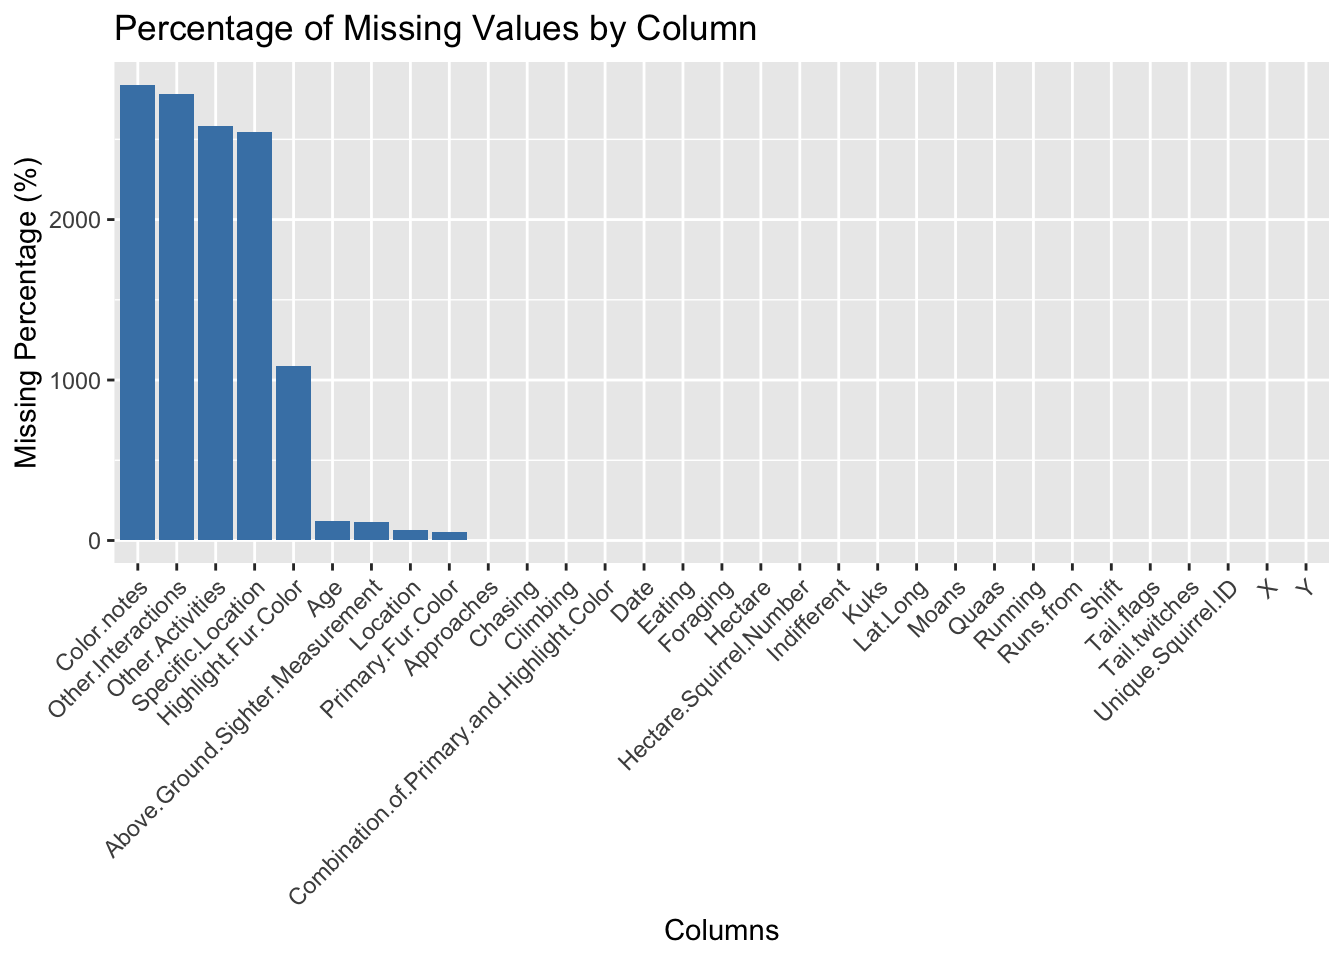
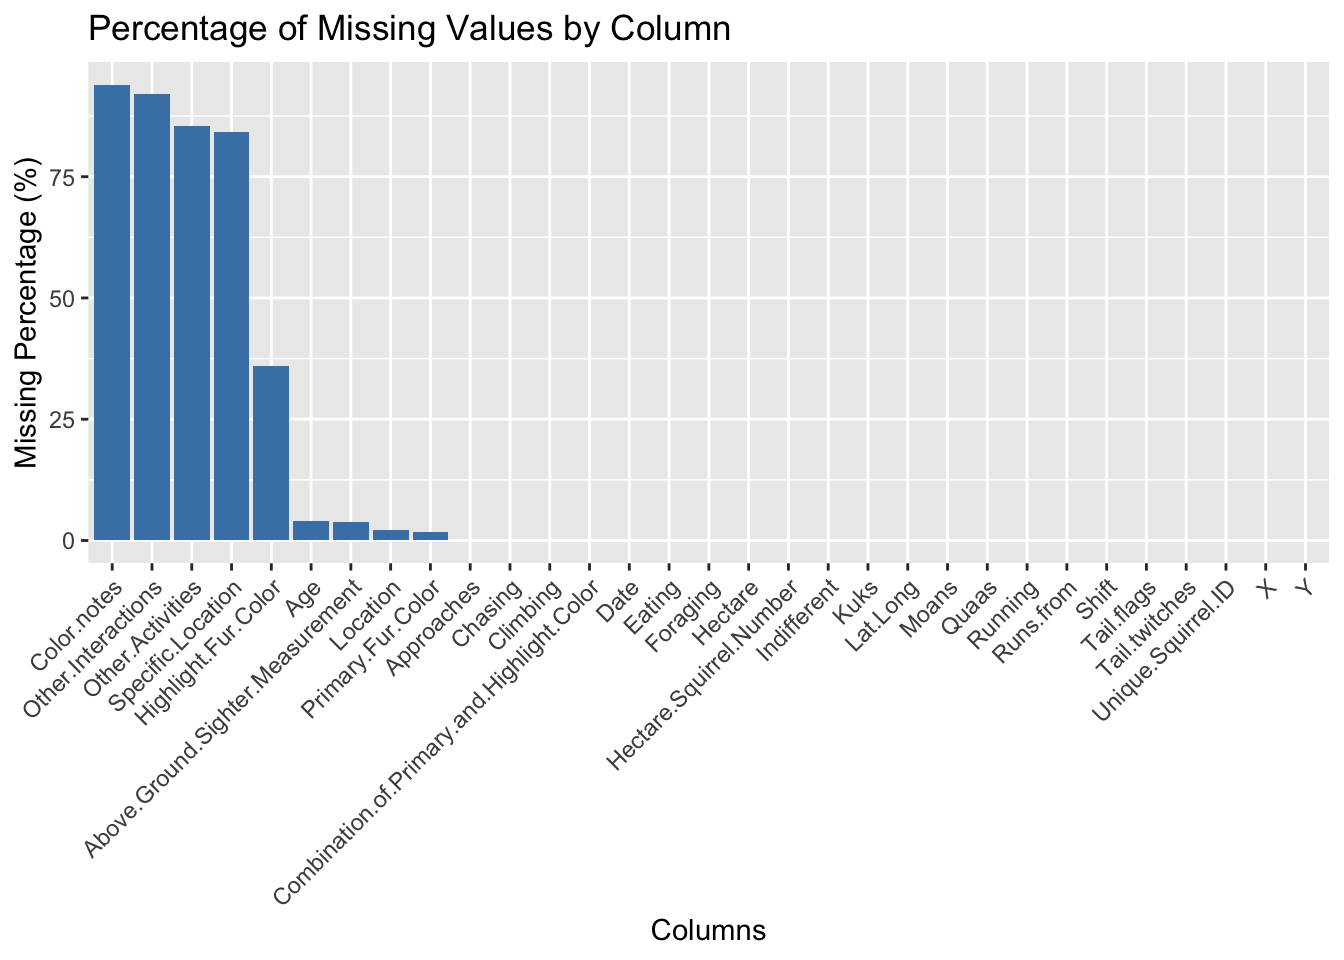
Updates

diff --git a/docs/data.html b/docs/data.html
@@ -213,9 +213,11 @@ pre > code.sourceCode > span > a:first-child::before { text-decoration: underlin
 <section id="description" class="level2" data-number="2.1">
 <h2 data-number="2.1" class="anchored" data-anchor-id="description"><span class="header-section-number">2.1</span> Description</h2>
 <p>The 2018 Central Park Squirrel Census dataset is a squirrel sighting data collected by 23 volunteer Squirrel Sighters in October of 2018. Throughout two weeks of time, they will walk around the Central Park and document each sighting of squirrels. From their website The Squirrel Census, they don’t have a specific data collecting and updating cycle, as they collected data in 2012, 2016, 2018 and 2020. This may due to the fact that this is more like a volunteering project. We are not using the latest data because it only includes 434 sightings but were collected from 24 different parks, making the data too sparse to analyze. Therefore, we choose the 2018 dataset that focused on the squirrels in Central Park. The dataset is in tabular format with 3023 rows and 31 columns. Each row is an instance of sighting squirrels. The columns capture different aspect of the sighting, including location, time, number of squirrels, what were squirrels doing, etc. The data were well-collected and well-documented, so there is no issue interpreting them. One issue was some data are in the type of Checkbox, but if downloading the dataset as a csv file, which is an available option, Checkbox type will be automaticly convert into True and False values. Additionally, there are some extra information columns that contains field notes, which we need to consider how to deal with.</p>
+<p>Source of data: <a href="https://data.cityofnewyork.us/Environment/2018-Central-Park-Squirrel-Census-Squirrel-Data/vfnx-vebw/about_data">Squirrel Census Dateset</a>, <a href="https://www.thesquirrelcensus.com/">The Squirrel Census official website</a></p>
 </section>
 <section id="missing-value-analysis" class="level2" data-number="2.2">
 <h2 data-number="2.2" class="anchored" data-anchor-id="missing-value-analysis"><span class="header-section-number">2.2</span> Missing value analysis</h2>
+<p><strong>Import required libraries and data:</strong></p>
 <div class="cell">
 <details class="code-fold">
 <summary>Code</summary>
@@ -227,6 +229,7 @@ pre > code.sourceCode > span > a:first-child::before { text-decoration: underlin
 <span id="cb1-6"><a href="#cb1-6" aria-hidden="true" tabindex="-1"></a>squirrel_data <span class="ot">&lt;-</span> <span class="fu">read.csv</span>(<span class="st">"./2018_Central_Park_Squirrel_Census_-_Squirrel_Data_20241120.csv"</span>)</span></code><button title="Copy to Clipboard" class="code-copy-button"><i class="bi"></i></button></pre></div>
 </details>
 </div>
+<p><strong>Get missing value count:</strong></p>
 <div class="cell">
 <details class="code-fold">
 <summary>Code</summary>
@@ -253,6 +256,8 @@ pre > code.sourceCode > span > a:first-child::before { text-decoration: underlin
 # ℹ 21 more rows</code></pre>
 </div>
 </div>
+<p>The results in the above table are shown in a descending value, this means there seems to be no missing value for our dataset. However, with a more careful inspection of our data, there are missing values. It’s just all the missing values are empty cells instead of NA.</p>
+<p><strong>Convert the missing value to NA:</strong></p>
 <div class="cell">
 <details class="code-fold">
 <summary>Code</summary>
@@ -304,10 +309,12 @@ pre > code.sourceCode > span > a:first-child::before { text-decoration: underlin
 31 Lat.Long                                              0              0   </code></pre>
 </div>
 </div>
+<p>With the updated dataset, now we see a lot of missing values for some of the columns. Let’s create a graph to show the distribution of the these missing valus.</p>
+<p><strong>Percentage of missing data:</strong></p>
 <div class="cell">
 <details class="code-fold">
 <summary>Code</summary>
-<div class="sourceCode cell-code" id="cb6"><pre class="sourceCode r code-with-copy"><code class="sourceCode r"><span id="cb6-1"><a href="#cb6-1" aria-hidden="true" tabindex="-1"></a><span class="fu">ggplot</span>(missing_values, <span class="fu">aes</span>(<span class="at">x =</span> <span class="fu">reorder</span>(Column, <span class="sc">-</span>MissingCount), <span class="at">y =</span> MissingCount)) <span class="sc">+</span></span>
+<div class="sourceCode cell-code" id="cb6"><pre class="sourceCode r code-with-copy"><code class="sourceCode r"><span id="cb6-1"><a href="#cb6-1" aria-hidden="true" tabindex="-1"></a><span class="fu">ggplot</span>(missing_values, <span class="fu">aes</span>(<span class="at">x =</span> <span class="fu">reorder</span>(Column, <span class="sc">-</span>MissingPercentage), <span class="at">y =</span> MissingPercentage)) <span class="sc">+</span></span>
 <span id="cb6-2"><a href="#cb6-2" aria-hidden="true" tabindex="-1"></a>  <span class="fu">geom_bar</span>(<span class="at">stat =</span> <span class="st">"identity"</span>, <span class="at">fill =</span> <span class="st">"steelblue"</span>) <span class="sc">+</span></span>
 <span id="cb6-3"><a href="#cb6-3" aria-hidden="true" tabindex="-1"></a>  <span class="fu">labs</span>(</span>
 <span id="cb6-4"><a href="#cb6-4" aria-hidden="true" tabindex="-1"></a>    <span class="at">title =</span> <span class="st">"Percentage of Missing Values by Column"</span>,</span>
@@ -324,36 +331,20 @@ pre > code.sourceCode > span > a:first-child::before { text-decoration: underlin
 </div>
 </div>
 </div>
+<p>For the columns with missing data, the top four all have more than 80% of missing data, some even reaching 95%. The fifth one also have around 35% missing data. However, these does not cause any major issue because these five columns hold the text data that serves as field notes. They record additional information about squirrel colors, how they interact with people, what they are doing and the specific location they were found like “under a tree”. These won’t affect our main exploratory analysis as we won’t be using them. But we will use them as notes when creating a interactive map to demonstrate the spacial distribution of squirrels within Central Park.<br>
+For the rest of the missing value, we may choose to either remove the rows directly, as they only take a small portion of the data, or assign a special value to them.</p>
+<p>Now we will take a closer look at the distribution of the columns with top five number of missing values.</p>
+<p><strong>A more detailed visualization of the top five missing value with the library <em>naniar</em></strong></p>
 <div class="cell">
 <details class="code-fold">
 <summary>Code</summary>
-<div class="sourceCode cell-code" id="cb7"><pre class="sourceCode r code-with-copy"><code class="sourceCode r"><span id="cb7-1"><a href="#cb7-1" aria-hidden="true" tabindex="-1"></a><span class="fu">ggplot</span>(missing_values, <span class="fu">aes</span>(<span class="at">x =</span> <span class="fu">reorder</span>(Column, <span class="sc">-</span>MissingPercentage), <span class="at">y =</span> MissingPercentage)) <span class="sc">+</span></span>
-<span id="cb7-2"><a href="#cb7-2" aria-hidden="true" tabindex="-1"></a>  <span class="fu">geom_bar</span>(<span class="at">stat =</span> <span class="st">"identity"</span>, <span class="at">fill =</span> <span class="st">"steelblue"</span>) <span class="sc">+</span></span>
-<span id="cb7-3"><a href="#cb7-3" aria-hidden="true" tabindex="-1"></a>  <span class="fu">labs</span>(</span>
-<span id="cb7-4"><a href="#cb7-4" aria-hidden="true" tabindex="-1"></a>    <span class="at">title =</span> <span class="st">"Percentage of Missing Values by Column"</span>,</span>
-<span id="cb7-5"><a href="#cb7-5" aria-hidden="true" tabindex="-1"></a>    <span class="at">x =</span> <span class="st">"Columns"</span>,</span>
-<span id="cb7-6"><a href="#cb7-6" aria-hidden="true" tabindex="-1"></a>    <span class="at">y =</span> <span class="st">"Missing Percentage (%)"</span></span>
-<span id="cb7-7"><a href="#cb7-7" aria-hidden="true" tabindex="-1"></a>  ) <span class="sc">+</span></span>
-<span id="cb7-8"><a href="#cb7-8" aria-hidden="true" tabindex="-1"></a>  <span class="fu">theme</span>(<span class="at">axis.text.x =</span> <span class="fu">element_text</span>(<span class="at">angle =</span> <span class="dv">45</span>, <span class="at">hjust =</span> <span class="dv">1</span>))</span></code><button title="Copy to Clipboard" class="code-copy-button"><i class="bi"></i></button></pre></div>
+<div class="sourceCode cell-code" id="cb7"><pre class="sourceCode r code-with-copy"><code class="sourceCode r"><span id="cb7-1"><a href="#cb7-1" aria-hidden="true" tabindex="-1"></a><span class="fu">library</span>(naniar)</span>
+<span id="cb7-2"><a href="#cb7-2" aria-hidden="true" tabindex="-1"></a><span class="fu">gg_miss_upset</span>(squirrel_data) </span></code><button title="Copy to Clipboard" class="code-copy-button"><i class="bi"></i></button></pre></div>
 </details>
 <div class="cell-output-display">
 <div>
 <figure class="figure">
 <p><img src="data_files/figure-html/unnamed-chunk-5-1.png" class="img-fluid figure-img" width="672"></p>
-</figure>
-</div>
-</div>
-</div>
-<div class="cell">
-<details class="code-fold">
-<summary>Code</summary>
-<div class="sourceCode cell-code" id="cb8"><pre class="sourceCode r code-with-copy"><code class="sourceCode r"><span id="cb8-1"><a href="#cb8-1" aria-hidden="true" tabindex="-1"></a><span class="fu">library</span>(naniar)</span>
-<span id="cb8-2"><a href="#cb8-2" aria-hidden="true" tabindex="-1"></a><span class="fu">gg_miss_upset</span>(squirrel_data) </span></code><button title="Copy to Clipboard" class="code-copy-button"><i class="bi"></i></button></pre></div>
-</details>
-<div class="cell-output-display">
-<div>
-<figure class="figure">
-<p><img src="data_files/figure-html/unnamed-chunk-6-1.png" class="img-fluid figure-img" width="672"></p>
 </figure>
 </div>
 </div>
